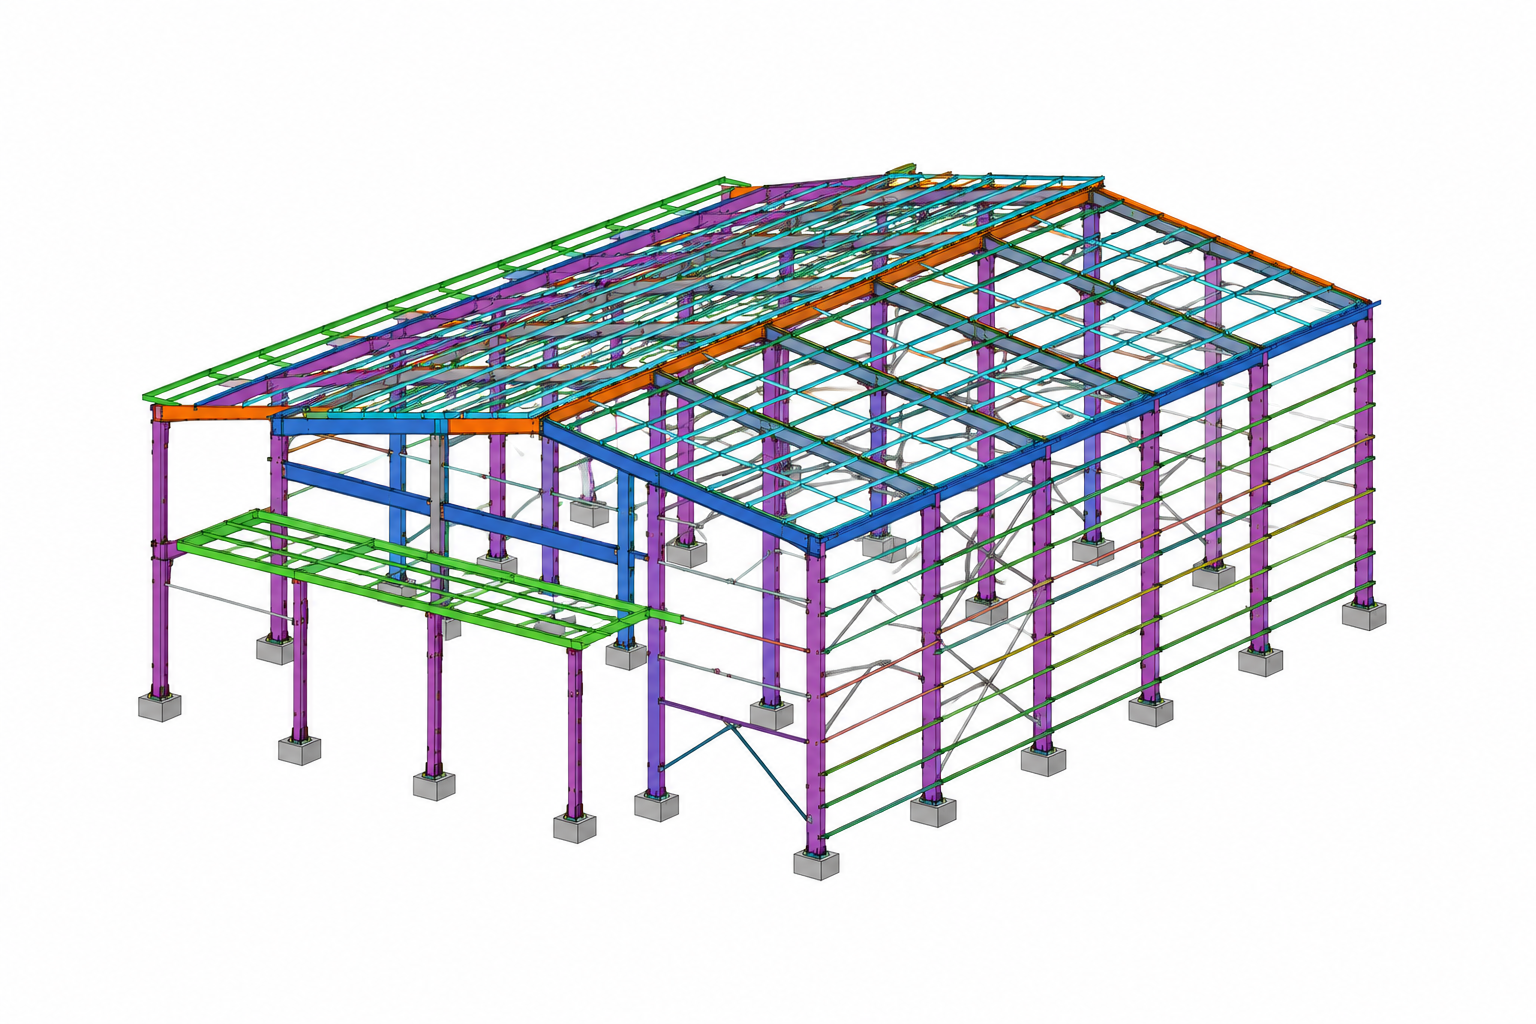
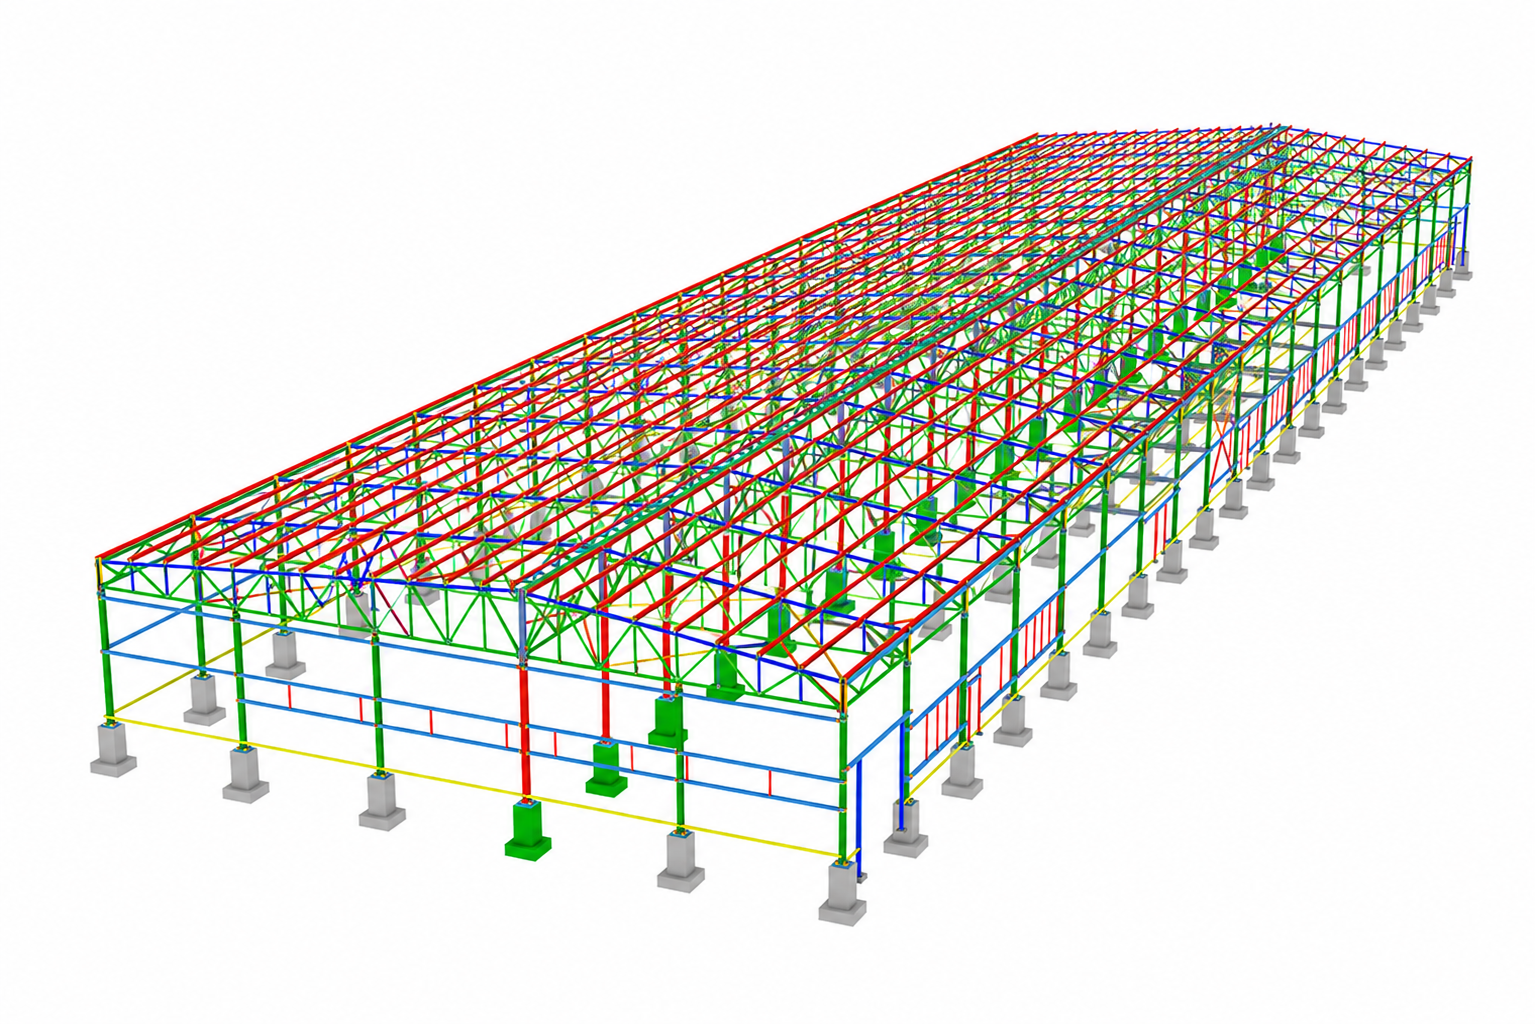
color changes

diff --git a/src/components/Navbar.jsx b/src/components/Navbar.jsx
@@ -106,11 +106,11 @@ export default function Navbar() {
                 <ul className="sub-menu">
                   <li><a href="/peb-design" onClick={closeMobileMenu}>PEB Design & Structural Engineering</a></li>
                   <li><a href="/peb-detailing" onClick={closeMobileMenu}>PEB Detailing & Tekla Modelling</a></li>
+                  <li><a href="/civil-design" onClick={closeMobileMenu}>Civil Design & Construction Consulting</a></li>
                   <li><a href="/connection-design" onClick={closeMobileMenu}>Connection Design & Engineering</a></li>
                   <li><a href="/value-engineering" onClick={closeMobileMenu}>Value Engineering</a></li>
                   <li><a href="/material-take-off" onClick={closeMobileMenu}>Material Take-Off & Estimation</a></li>
                   <li><a href="/fabrication-support" onClick={closeMobileMenu}>Fabrication & Construction Support</a></li>
-                  <li><a href="/civil-design" onClick={closeMobileMenu}>Civil Design & Construction Consulting</a></li>
                   <li><a href="/digital-engineering" onClick={closeMobileMenu}>Digital Engineering Services</a></li>
                 </ul>
               </li>
@@ -138,7 +138,7 @@ export default function Navbar() {
 
       <header className="th-header header-layout1">
         <div className="sticky-wrapper">
-          <div className="header-top" style={{ display: 'flex', alignItems: 'center', justifyContent: 'center', width: '100%', boxSizing: 'border-box' }}>
+          <div className="header-top" style={{ backgroundColor: '#05012a', display: 'flex', alignItems: 'center', justifyContent: 'center', width: '100%', boxSizing: 'border-box' }}>
             <ul className="hc-contact-list">
               <li className="hc-phone">
                 <i className="far fa-phone hc-icon"></i>
@@ -180,11 +180,11 @@ export default function Navbar() {
                         <ul className="sub-menu">
                           <li><a href="/peb-design">PEB Design & Structural Engineering</a></li>
                           <li><a href="/peb-detailing">PEB Detailing & Tekla Modelling</a></li>
+                          <li><a href="/civil-design">Civil Design & Construction Consulting</a></li>
                           <li><a href="/connection-design">Connection Design & Engineering</a></li>
                           <li><a href="/value-engineering">Value Engineering</a></li>
                           <li><a href="/material-take-off">Material Take-Off & Estimation</a></li>
                           <li><a href="/fabrication-support">Fabrication & Construction Support</a></li>
-                          <li><a href="/civil-design">Civil Design & Construction Consulting</a></li>
                           <li><a href="/digital-engineering">Digital Engineering Services</a></li>
                         </ul>
                       </li>

diff --git a/src/hero.css b/src/hero.css
@@ -1,4 +1,10 @@
 /* ══ Header Contact Bar ══ */
+.th-header .header-top,
+.header-top {
+  background: #05012a !important;
+  background-color: #05012a !important;
+}
+
 .hc-contact-list {
   display: flex;
   align-items: center;
@@ -203,6 +209,19 @@
   /* Prevent text wrapping */
 }
 
+/* Button Hover Overrides */
+.th-btn.style2:hover,
+.th-btn.style2:focus {
+  background-color: #05012a !important;
+  color: #ffffff !important;
+  border-color: #05012a !important;
+}
+
+.th-btn.style2::before,
+.th-btn.style2::after {
+  background-color: #05012a !important;
+}
+
 /* Adjust the subtitle for better spacing */
 .hero-style1 .hero-subtitle {
   font-size: 16px !important;
@@ -282,7 +301,7 @@
     display: flex !important;
     align-items: center !important;
     justify-content: center !important;
-    background: #0F172A !important;
+    background: #05012a !important;
     height: 24px !important;
     min-height: 24px !important;
     padding: 0 8px !important;
@@ -454,7 +473,7 @@
 }
 
 @media (max-width: 575px) {
-  .th-header .header-top {
+  .th-header {
     height: 20px !important;
     min-height: 16px !important;
   }
@@ -871,7 +890,7 @@
 .hero-counter-grid {
   display: grid;
   grid-template-columns: repeat(5, 1fr);
-  background-color: #121318;
+  background-color: #05012a;
   border-radius: 14px;
   overflow: hidden;
   box-shadow: 0 20px 45px rgba(0, 0, 0, 0.5);
@@ -889,7 +908,7 @@
 
 .hero-counter-card {
   position: relative;
-  background-color: #16181d;
+  background-color: #05012a;
   padding: 52px 24px 56px 24px;
   display: flex;
   flex-direction: column;
@@ -939,9 +958,10 @@
 }
 
 .hero-counter-card:hover {
-  background-color: #1d1f27;
+  background-color: #222634;
+  background-image: linear-gradient(145deg, #282d3e 0%, #1a1d29 100%);
   transform: translateY(-6px) !important;
-  box-shadow: inset 0 0 25px rgba(229, 66, 18, 0.06), 0 12px 30px rgba(0, 0, 0, 0.4);
+  box-shadow: inset 0 1px 0 rgba(255, 255, 255, 0.15), 0 16px 36px rgba(0, 0, 0, 0.45);
 }
 
 /* Inner Layout */
@@ -1202,7 +1222,7 @@
     width: calc((100% - 30px) / 3);
     border: 1px solid rgba(255, 255, 255, 0.1) !important;
     border-radius: 14px;
-    background-color: #16181d;
+    background-color: #05012a;
     box-shadow: 0 10px 30px rgba(0, 0, 0, 0.4);
   }
 

diff --git a/src/components/ConsultationModal.jsx b/src/components/ConsultationModal.jsx
@@ -269,11 +269,11 @@ export default function ConsultationModal({ isOpen, onClose }) {
                     >
                       <option value="PEB Design & Structural Engineering">PEB Design & Structural Engineering</option>
                       <option value="PEB Detailing & Tekla Modelling">PEB Detailing & Tekla Modelling</option>
+                      <option value="Civil Design & Construction Consulting">Civil Design & Construction Consulting</option>
                       <option value="Connection Design & Engineering">Connection Design & Engineering</option>
                       <option value="Value Engineering & Material Optimization">Value Engineering & Material Optimization</option>
                       <option value="Material Take-Off & Estimation">Material Take-Off & Estimation</option>
                       <option value="Fabrication & Construction Support">Fabrication & Construction Support</option>
-                      <option value="Civil Design & Construction Consulting">Civil Design & Construction Consulting</option>
                       <option value="Digital Engineering Services">Digital Engineering Services</option>
                     </select>
                   </div>

diff --git a/src/pages/Home.jsx b/src/pages/Home.jsx
@@ -96,7 +96,7 @@ export default function Home() {
                   ENGINEERING SMARTER STEEL STRUCTURES FOR TOMORROW'S INDUSTRIES
                 </h1>
                 <p className="hero-text text-white">
-                  Structural Consulting | PEB Design | Tekla Detailing | Value Engineering | Turnkey Engineering
+                  Structural Consulting | PEB Design | Tekla Detailing | Civil Construction | Turnkey Engineering
                 </p>
                 <div className="btn-group">
                   <Link to="/projects#projects" className="th-btn style3">

diff --git a/src/components/ServiceCards.jsx b/src/components/ServiceCards.jsx
@@ -46,6 +46,13 @@ const servicesData = [
     link: '/peb-detailing'
   },
   {
+   
+    title: 'Civil Design & Construction Consulting',
+    icon: LuLandmark,
+    image: img7,
+    link: '/civil-design'
+  },
+  {
 
     title: 'Connection Design & Engineering',
     icon: LuWrench,
@@ -72,13 +79,6 @@ const servicesData = [
     icon: LuWrench,
     image: img6,
     link: '/fabrication-support'
-  },
-  {
-   
-    title: 'Civil Design & Construction Consulting',
-    icon: LuLandmark,
-    image: img7,
-    link: '/civil-design'
   },
   {
 

diff --git a/src/components/DigitalEngineeringUSP.css b/src/components/DigitalEngineeringUSP.css
@@ -5,7 +5,7 @@
    ============================================ */
 
 .usp-section {
-  background-color: #141422;
+  background-color: #05012a;
   padding: 80px 0 90px;
   width: 100%;
 }
